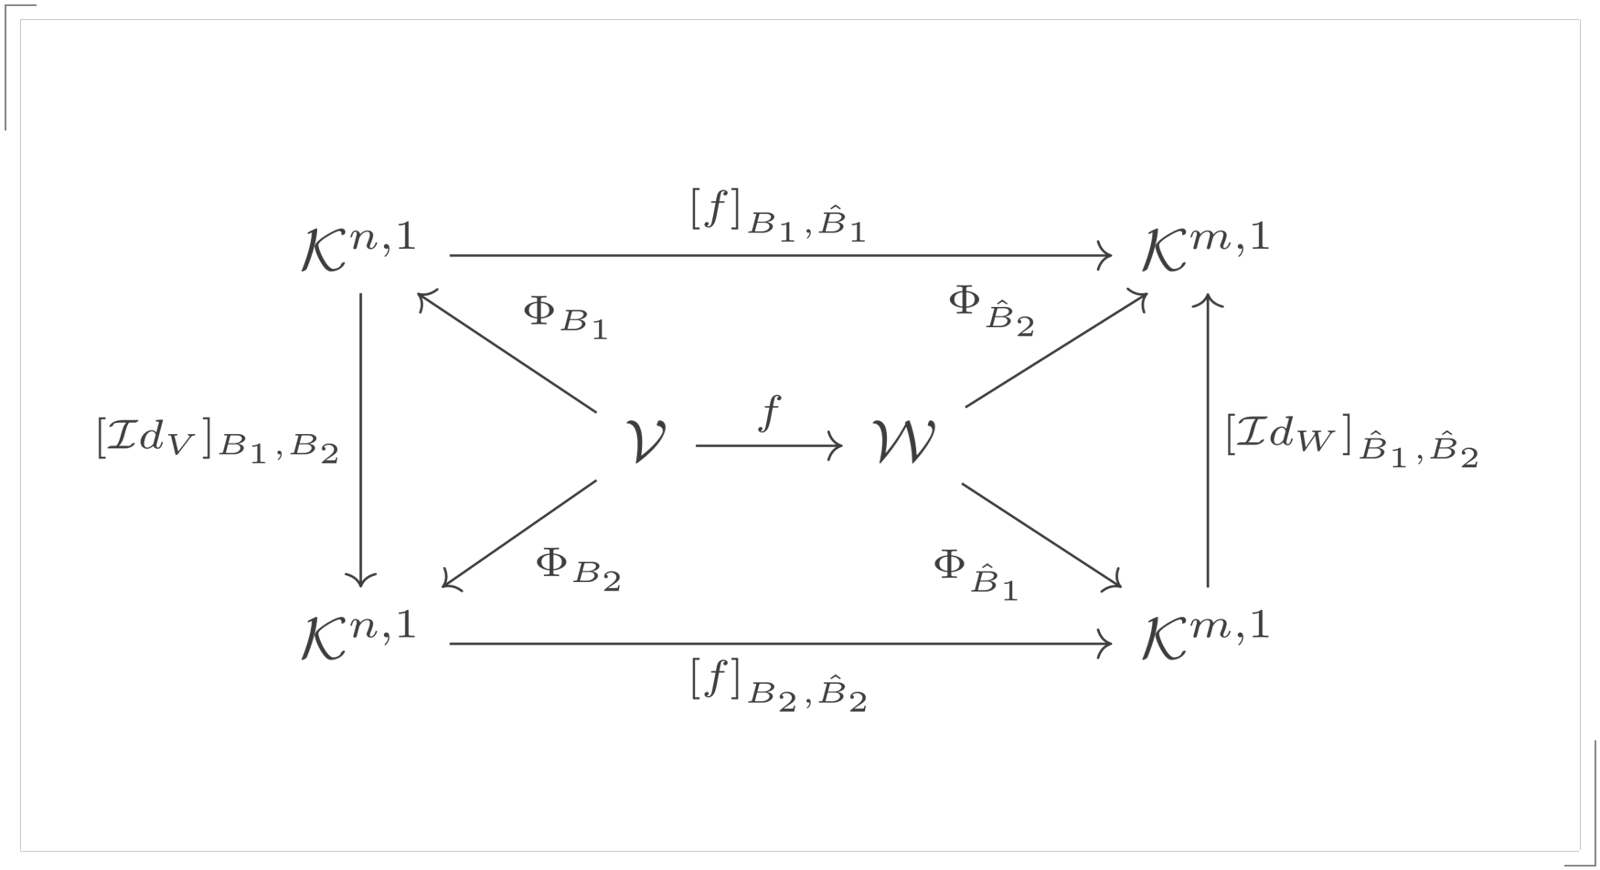
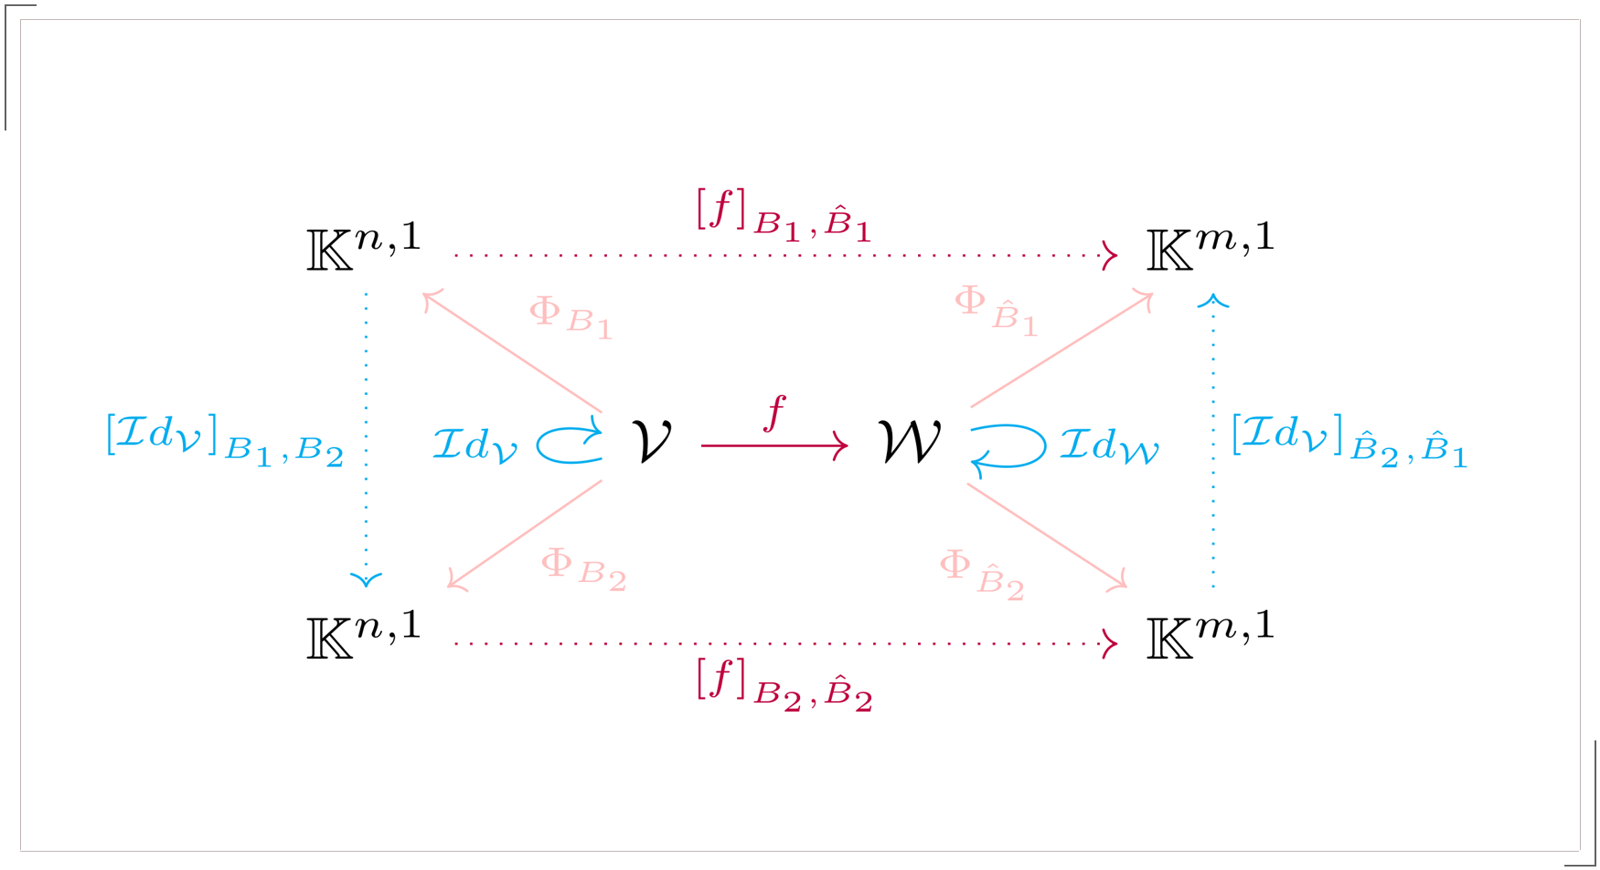
added lina

diff --git a/constructor/latex_extractor.py b/constructor/latex_extractor.py
@@ -259,4 +259,4 @@ if __name__ == "__main__":
                 paste_layer('2023-7-6-VAE', f'eq{i}')'''
 
     main('lina', f'commutative')
-    paste_layer('lina', f'commutative')
+    # paste_layer('lina', f'commutative')

diff --git a/subject_post/linear_algebra/representation.md b/subject_post/linear_algebra/representation.md
@@ -55,13 +55,29 @@ $$\begin{align} f(v) &= f \ (\sum_{i=1}^{\\n} \lambda_{i} b_{i}) \\
 
 <br/>
 
-The matrix representation of $$ f $$ is given by $$ A $$ and is denoted by $$ [f]_{B_{1}, B_{2}} $$.  The coordinates of $$ f(v) $$ is given by $$ \Biggl( [f]_{B_{1}, B_{2}} \begin{bmatrix} \lambda_{1} \\ \vdots \\ \lambda_{n} \end{bmatrix} \Biggl) $$ .
+The matrix representation of $$ f $$ is given by $$ A $$ and is denoted by $$ [f]_{B_{1}, B_{2}} $$.  The coordinates of $$ f(v) = w \in \mathcal{W} $$ is given by $$ \Biggl( [f]_{B_{1}, B_{2}} \begin{bmatrix} \lambda_{1} \\ \vdots \\ \lambda_{n} \end{bmatrix} \Biggl) $$ .
 
 ### Commutative Diagram
 
 <br/>
 
-{% include res_img.html url="/images/lina/commutative.png" width="900px" %}
+The following commutative diagram captures the mappings of the (1) homomorphism, (2) coordinates, (3) identity and their matrix representations:
+
+<br/>
+
+$$\begin{align} 
+&(1) \quad f \ : \mathcal V \longrightarrow \mathcal W , \quad v \longmapsto f(v) = w\\
+&(2) \quad \Phi_B \ : \mathcal V \longrightarrow \mathbb{K}^{n, 1} , \quad v = \sum_{i=1}^{\\n} \lambda_{i} b_{i} \longmapsto \Phi(v) := \begin{bmatrix} \lambda_{1} \\ \vdots \\ \lambda_{n} \end{bmatrix} \\
+&(3) \quad \mathcal{I}d_{\mathcal V} \ : \mathcal V  \longrightarrow \mathcal V  , \quad \mathcal v \longmapsto \mathcal{I}d_{\mathcal V}(v)  = v
+\end{align}$$
+
+<br/>
+
+{% include res_gif.html url="/images/lina/commutative.png" text="The dotted arrows are the mappings from the representation matrices to highlight the different type of mapping." %}
+
+
+<br/>
+
 
 <br/>
 
@@ -70,6 +86,10 @@ The matrix representation of $$ f $$ is given by $$ A $$ and is denoted by $$ [f
 <br/>
 
 ### Basis Transformation
+
+<br/>
+
+#### Properties
 
 <br/>
 
